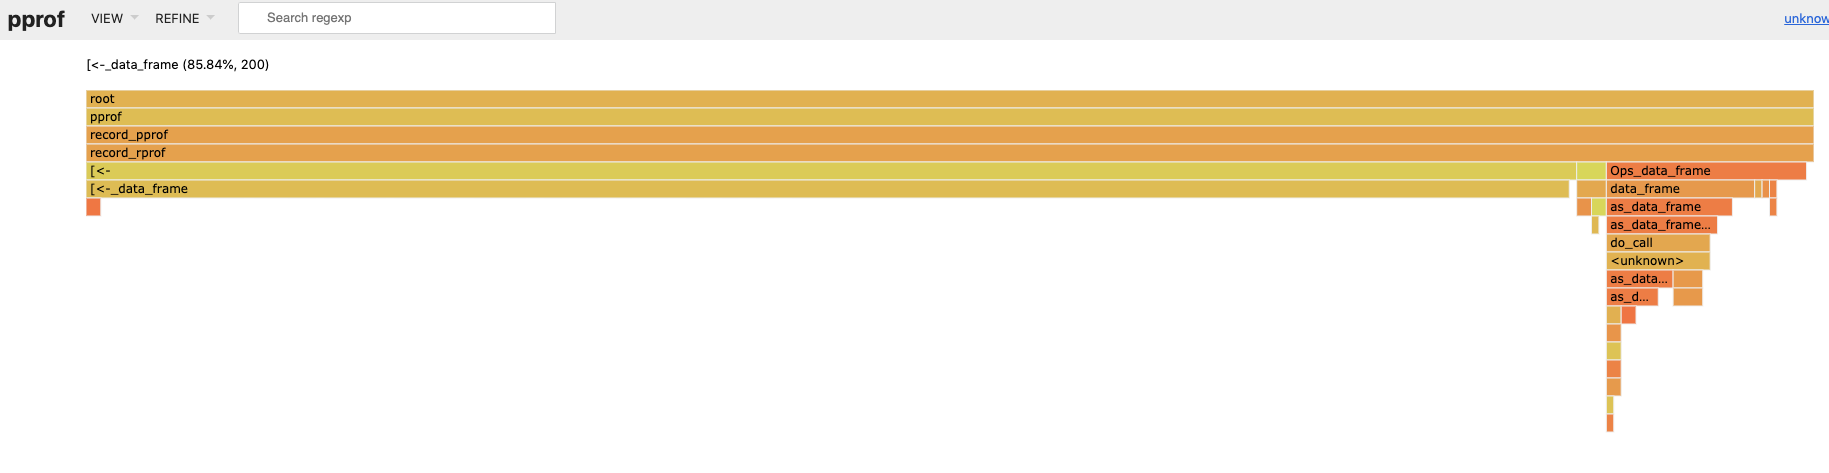
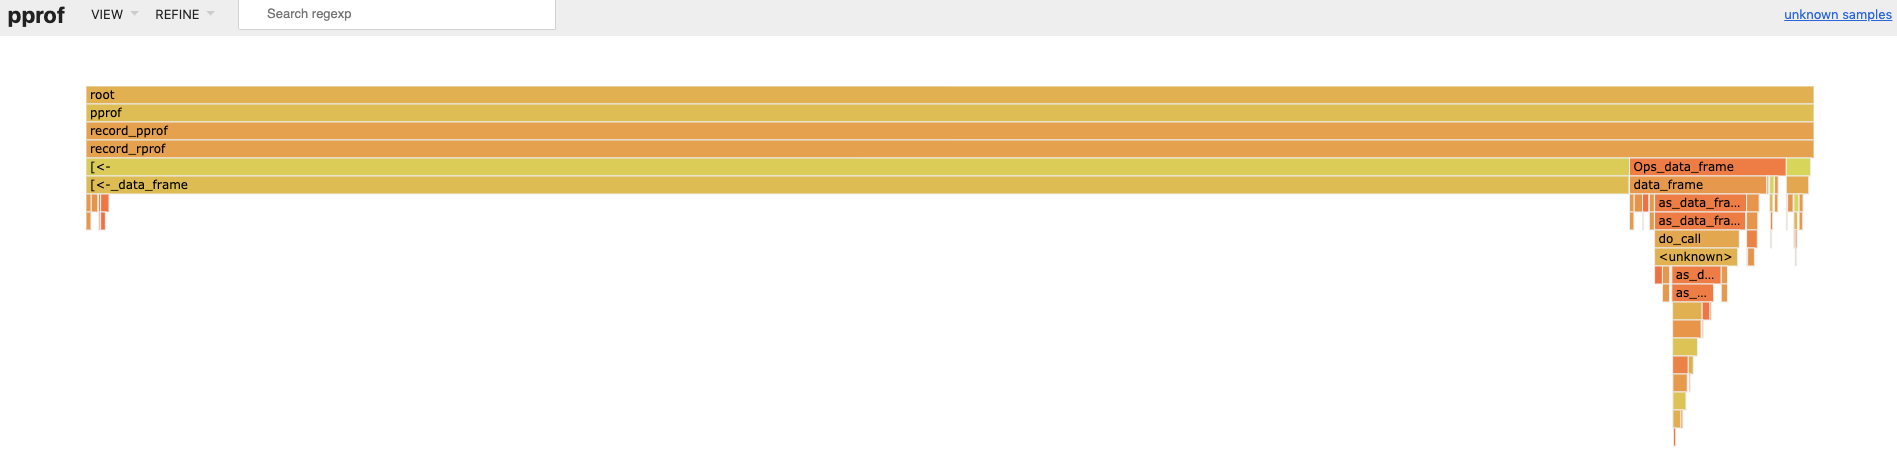
Scale up runtime of example

diff --git a/README.md b/README.md
@@ -1,36 +1,46 @@
 
 <!-- README.md is generated from README.Rmd. Please edit that file -->
-proffer <img src="https://r-prof.github.io/proffer/reference/figures/logo.png" align="right" alt="logo" width="120" height="139" style="border: none; float: right;">
-=====================================================================================================================================================================
 
-[![CRAN](https://www.r-pkg.org/badges/version/proffer)](https://cran.r-project.org/package=proffer) [![license](https://img.shields.io/badge/licence-MIT-blue.svg)](https://opensource.org/licenses/MIT) [![active](https://www.repostatus.org/badges/latest/active.svg)](https://www.repostatus.org/#active) [![Travis build status](https://travis-ci.org/r-prof/proffer.svg?branch=master)](https://travis-ci.org/r-prof/proffer) [![AppVeyor build status](https://ci.appveyor.com/api/projects/status/github/r-prof/proffer?branch=master&svg=true)](https://ci.appveyor.com/project/r-prof/proffer) [![Codecov](https://codecov.io/github/r-prof/proffer/coverage.svg?branch=master)](https://codecov.io/github/r-prof/proffer?branch=master)
+# proffer <img src="https://r-prof.github.io/proffer/reference/figures/logo.png" align="right" alt="logo" width="120" height="139" style="border: none; float: right;">
 
-The `proffer` package profiles R code to find the slow parts. Visit <https://r-prof.github.io/proffer> for documentation. <https://r-prof.github.io/proffer/reference/index.html> has a complete list of available functions in the package.
+[![CRAN](https://www.r-pkg.org/badges/version/proffer)](https://cran.r-project.org/package=proffer)
+[![license](https://img.shields.io/badge/licence-MIT-blue.svg)](https://opensource.org/licenses/MIT)
+[![active](https://www.repostatus.org/badges/latest/active.svg)](https://www.repostatus.org/#active)
+[![Travis build
+status](https://travis-ci.org/r-prof/proffer.svg?branch=master)](https://travis-ci.org/r-prof/proffer)
+[![AppVeyor build
+status](https://ci.appveyor.com/api/projects/status/github/r-prof/proffer?branch=master&svg=true)](https://ci.appveyor.com/project/r-prof/proffer)
+[![Codecov](https://codecov.io/github/r-prof/proffer/coverage.svg?branch=master)](https://codecov.io/github/r-prof/proffer?branch=master)
 
-How it works
-------------
+The `proffer` package profiles R code to find the slow parts. Visit
+<https://r-prof.github.io/proffer> for documentation.
+<https://r-prof.github.io/proffer/reference/index.html> has a complete
+list of available functions in the package.
 
-Let's say you have some slow R code and you want to speed it up.
+## How it works
+
+Let’s say you have some slow R code and you want to speed it up.
 
 ``` r
 system.time({
-  n <- 1e4
+  n <- 1e5
   x <- data.frame(x = rnorm(n), y = rnorm(n))
   for (i in seq_len(n)) {
     x[i, ] <- x[i, ] + 1
   }
   x
 })
-#>    user  system elapsed 
-#>    2.68    0.03    2.72
+#>   user  system elapsed 
+#> 82.060  28.440 110.582 
 ```
 
-Why is it so slow? The standard recommendation is to use [`profvis`](https://github.com/rstudio/profvis) to find out.
+Why is it so slow? The standard recommendation is to use
+[`profvis`](https://github.com/rstudio/profvis) to find out.
 
 ``` r
 library(profvis)
 profvis({
-  n <- 1e4
+  n <- 1e5
   x <- data.frame(x = rnorm(n), y = rnorm(n))
   for (i in seq_len(n)) {
     x[i, ] <- x[i, ] + 1
@@ -40,14 +50,26 @@ profvis({
 ```
 
 <center>
-<a href="https://r-prof.github.io/proffer/reference/figures/profvis.png"> <img src="https://r-prof.github.io/proffer/reference/figures/profvis.png" alt="top" align="center" style = "border: none; float: center;"> </a>
+
+<a href="https://r-prof.github.io/proffer/reference/figures/profvis.png">
+<img src="https://r-prof.github.io/proffer/reference/figures/profvis.png" alt="top" align="center" style = "border: none; float: center;">
+</a>
+
 </center>
-`profvis` makes profiling super easy. However, when `proffer` was first released, `profvis` was struggling with some heavy-duty use cases. When there are a lot of operations to profile, `profvis`-generated flame graphs like the one above were sometimes [difficult to read](https://github.com/rstudio/profvis/issues/115) and [slow to respond to mouse clicks](https://github.com/rstudio/profvis/issues/104). `proffer` uses [`pprof`](https://github.com/google/pprof) to make the visualizations friendly and fast.
+
+`profvis` makes profiling super easy. However, when `proffer` was first
+released, `profvis` was struggling with some heavy-duty use cases. When
+there are a lot of operations to profile, `profvis`-generated flame
+graphs like the one above were sometimes [difficult to
+read](https://github.com/rstudio/profvis/issues/115) and [slow to
+respond to mouse clicks](https://github.com/rstudio/profvis/issues/104).
+`proffer` uses [`pprof`](https://github.com/google/pprof) to make the
+visualizations friendly and fast.
 
 ``` r
 library(proffer)
 px <- pprof({
-  n <- 1e4
+  n <- 1e5
   x <- data.frame(x = rnorm(n), y = rnorm(n))
   for (i in seq_len(n)) {
     x[i, ] <- x[i, ] + 1
@@ -57,23 +79,38 @@ px <- pprof({
 #> http://localhost:64610
 ```
 
-When we navigate a web browser to <http://localhost:64610> and select the flame graph under the VIEW menu, `[<-.data.frame()` jumps out at us immediately. Apparently, the line `x[i, ] <- x[i, ] + 1` takes the most runtime.
+When we navigate a web browser to <http://localhost:64610> and select
+the flame graph under the VIEW menu, `[<-.data.frame()` jumps out at us
+immediately. Apparently, the line `x[i, ] <- x[i, ] + 1` takes the most
+runtime.
 
 <center>
-<a href="https://r-prof.github.io/proffer/reference/figures/flame.png"> <img src="https://r-prof.github.io/proffer/reference/figures/flame.png" alt="top" align="center" style = "border: none; float: center;"> </a>
+
+<a href="https://r-prof.github.io/proffer/reference/figures/flame.png">
+<img src="https://r-prof.github.io/proffer/reference/figures/flame.png" alt="top" align="center" style = "border: none; float: center;">
+</a>
+
 </center>
-Indeed, a look at "Top" shows we spend 85% of the runtime on `x[i, ] <- x[i, ] + 1`. The other operations are fast by comparison.
+
+Indeed, a look at “Top” shows we spend most of the runtime on `x[i, ] <-
+x[i, ] + 1`. The other operations are fast by comparison.
 
 <center>
-<a href="https://r-prof.github.io/proffer/reference/figures/top.png"> <img src="https://r-prof.github.io/proffer/reference/figures/top.png" alt="top" align="center" style = "border: none; float: center;"> </a>
+
+<a href="https://r-prof.github.io/proffer/reference/figures/top.png">
+<img src="https://r-prof.github.io/proffer/reference/figures/top.png" alt="top" align="center" style = "border: none; float: center;">
+</a>
+
 </center>
+
 <br><br>
 
-So we return to our R code and avoid data frame row assignment. Much faster!
+So we return to our R code and avoid data frame row assignment. Much
+faster\!
 
 ``` r
 system.time({
-  n <- 1e4
+  n <- 1e5
   x <- rnorm(n)
   y <- rnorm(n)
   for (i in seq_len(n)) {
@@ -83,13 +120,13 @@ system.time({
   x <- data.frame(x = x, y = y)
 })
 #>    user  system elapsed 
-#>       0       0       0
+#>   0.051   0.002   0.052
 ```
 
-Managing the pprof server
--------------------------
+## Managing the pprof server
 
-Sometimes, your `pprof` server may not work right away. If that happens, take a look at the error logs.
+Sometimes, your `pprof` server may not work right away. If that happens,
+take a look at the error logs.
 
 ``` r
 px <- pprof({
@@ -108,20 +145,16 @@ px$is_alive()
 # [1] FALSE
 
 px$read_error() # Why did it quit soon?
-#> [1] "sh: /user/local/bin/pprof: No such file or directory\n"
+#> [1] "sh: /user/local/bin/pprof: No such file or directory\nWarning message:\nIn system2(Sys.getenv(\"pprof_path\"), args) : error in running command\n"
 
 # Oh, I must have set the wrong path to the pprof executable.
 # Let me find out where I actually installed pprof.
 system("which", "pprof")
 #> "/home/landau/go/bin/pprof"
 
-# Let's tell proffer where pprof lives.
+# I can put a line in my .Rprofile or .Renviron file
+# to automatically tell new sessions where pprof lives.
 Sys.setenv(pprof_path = "/home/landau/go/bin/pprof")
-
-# And type pprof_path=/home/landau/go/bin/pprof
-# in our .Renviron file so we do not need to call
-# Sys.setenv() next time.
-usethis::edit_r_environ()
 
 # Now, pprof should work.
 px <- pprof({
@@ -148,12 +181,16 @@ It is best to take down the `pprof` server when you are done with it.
 px$kill()
 ```
 
-`px` is the handle of a [`processx`](https://github.com/r-lib/processx) background process. To learn more about how to manage the process, have a look at the [`processx`](https://processx.r-lib.org/) documentation, particularly the [help page of processx::process$new()](https://processx.r-lib.org/reference/process.html).
+`px` is the handle of a [`callr`](https://github.com/r-lib/callr)
+background process. To learn more about how to manage the process, have
+a look at the [`callr`](https://callr.r-lib.org/) documentation,
+particularly the function
+[`r_bg()`](https://callr.r-lib.org/reference/r_bg.html).
 
-Installation
-------------
+## Installation
 
-The latest release of `proffer` is available on [CRAN](https://CRAN.R-project.org).
+The latest release of `proffer` is available on
+[CRAN](https://CRAN.R-project.org).
 
 ``` r
 install.packages("proffer")
@@ -166,15 +203,38 @@ Alternatively, you can install the development version from GitHub.
 remotes::install_github("r-prof/proffer")
 ```
 
-To use functions `pprof()` and `serve_pprof()`, you need to install [`pprof`](https://github.com/google/pprof). Installing `pprof` is hard, so if you have trouble, please do not hesitate to [open an issue](https://github.com/r-prof/proffer/issues) and ask for help. And if you cannot install `pprof`, then [`profvis`](https://rstudio.github.io/profvis/) is an excellent alternative.
+To use functions `pprof()` and `serve_pprof()`, you need to install
+[`pprof`](https://github.com/google/pprof). Installing `pprof` is hard,
+so if you have trouble, please do not hesitate to [open an
+issue](https://github.com/r-prof/proffer/issues) and ask for help. And
+if you cannot install `pprof`, then
+[`profvis`](https://rstudio.github.io/profvis/) is an excellent
+alternative.
 
-1.  [Install the Go programming language](https://golang.org/doc/install).
-2.  Ensure your system can find the Go binaries. Open your command line interface of choice (e.g. Terminal or Command Prompt) and type `go version`. If you get an error, you may need to set the `PATH` environment variable as described [here for Linux](https://www.callicoder.com/golang-installation-setup-gopath-workspace/#linux) and [here for Windows](http://www.wadewegner.com/2014/12/easy-go-programming-setup-for-windows/)
-3.  Follow [these instructions](https://github.com/golang/go/wiki/SettingGOPATH) to set the `GOPATH` environment variables on your system. Type `go env GOPATH` in in a new terminal session verify that you set it correctly.
-4.  Enter `go get -u github.com/google/pprof` in your terminal to install `pprof`
-5.  Find the path to the `pprof` executable. It is usually in the `bin` subdirectory of `GOPATH`, e.g. `/home/landau/go/bin/pprof`.
-6.  Add a line to your `.Renviron` file to set the `pprof_path` environment variable, e.g. `pprof_path=/home/landau/go/bin/pprof` to tell `proffer` where `pprof` lives. [usethis::edit\_r\_environ()](https://usethis.r-lib.org/reference/edit.html) is particularly handy for this.
+1.  [Install the Go programming
+    language](https://golang.org/doc/install).
+2.  Ensure your system can find the Go binaries. Open your command line
+    interface of choice (e.g. Terminal or Command Prompt) and type `go
+    version`. If you get an error, you may need to set the `PATH`
+    environment variable as described [here for
+    Linux](https://www.callicoder.com/golang-installation-setup-gopath-workspace/#linux)
+    and [here for
+    Windows](http://www.wadewegner.com/2014/12/easy-go-programming-setup-for-windows/)
+3.  Follow [these
+    instructions](https://github.com/golang/go/wiki/SettingGOPATH) to
+    set the `GOPATH` environment variables on your system. Type `go env
+    GOPATH` in in a new terminal session verify that you set it
+    correctly.
+4.  Enter `go get -u github.com/google/pprof` in your terminal to
+    install `pprof`
+5.  Find the path to the `pprof` executable. It is usually in the `bin`
+    subdirectory of `GOPATH`, e.g. `/home/landau/go/bin/pprof`.
+6.  Add a line to your `.Renviron` file to set the `pprof_path`
+    environment variable, e.g. `pprof_path=/home/landau/go/bin/pprof`.
+    This variable tells `proffer` how to find `pprof`.
 7.  Open a new R session check that pprof installed correctly.
+
+<!-- end list -->
 
 ``` r
 Sys.getenv("pprof_path")
@@ -185,7 +245,11 @@ system2(Sys.getenv("pprof_path")) # Shows the pprof help menu on Unix systems.
 shell(Sys.getenv("pprof_path")) # Analogous for Windows.
 ```
 
-Contributing
-------------
+## Contributing
 
-We encourage participation through [issues](https://github.com/r-prof/proffer/issues) and [pull requests](https://github.com/r-prof/proffer/pulls). `proffer` has a [Contributor Code of Conduct](https://github.com/r-prof/CODE_OF_CONDUCT.md). By contributing to this project, you agree to abide by its terms.
+We encourage participation through
+[issues](https://github.com/r-prof/proffer/issues) and [pull
+requests](https://github.com/r-prof/proffer/pulls). `proffer` has a
+[Contributor Code of
+Conduct](https://github.com/r-prof/CODE_OF_CONDUCT.md). By contributing
+to this project, you agree to abide by its terms.
